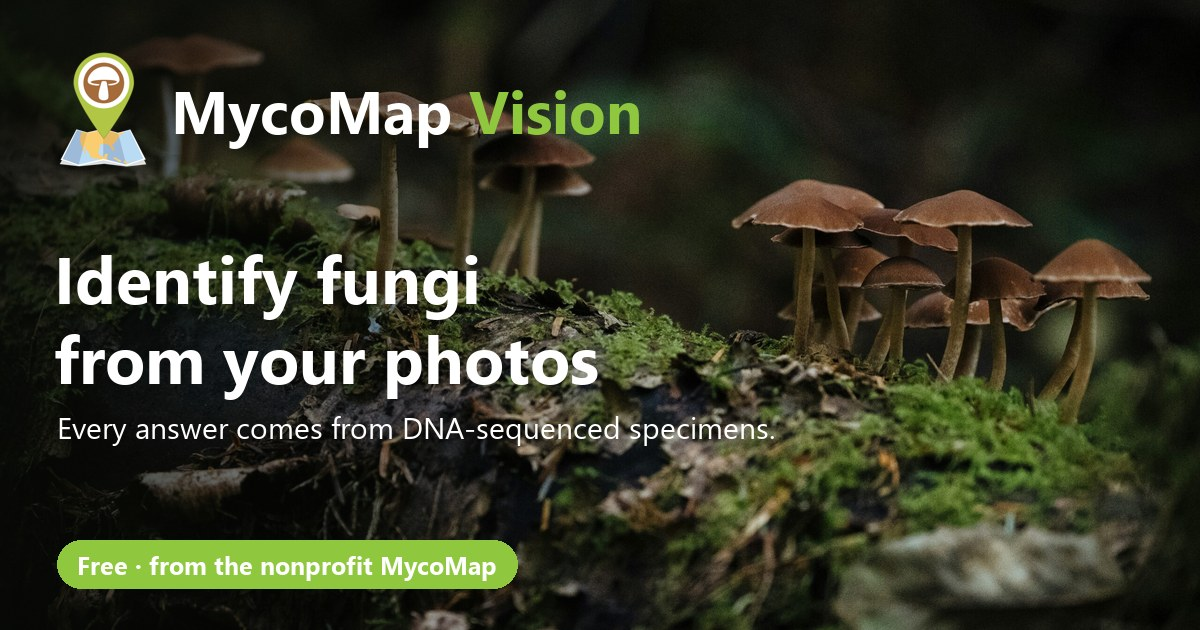
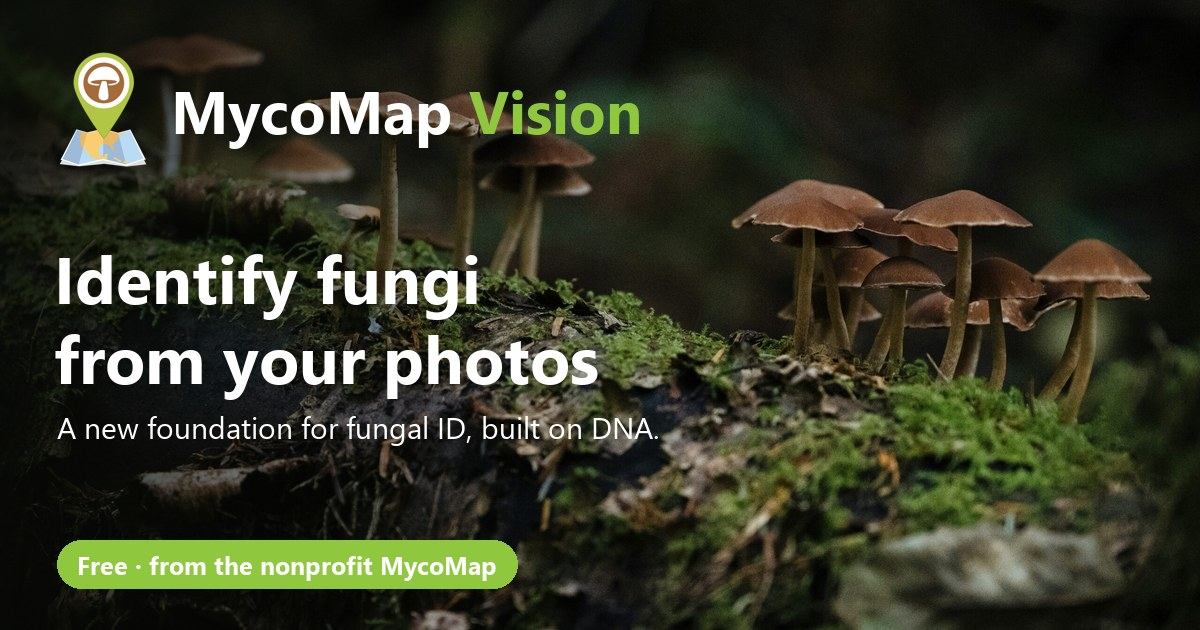
Site link card: "A new foundation for fungal ID, built on DNA."
Steve's pick, 2026-10-22, for the card's subline and its alt text. The
card is redrawn from the same hero photo; only the subline changes (main's
script redraws the live card byte-for-byte on this machine). The image's
address is versioned by its hash, so Facebook fetches it fresh on re-scrape.

No new test: a copy change to an image; the 48 link-card tests pass.

Changed region(s): [[0.0308, 0.6635, 0.6475, 0.7238]]

diff --git a/src/mycomap_vision/linkcards.py b/src/mycomap_vision/linkcards.py
@@ -45,8 +45,8 @@ SITE_DESCRIPTION = ("Matches your photos with 150,000+ DNA-verified records and 
                     "species known only from DNA. Free with a mycomap.org account. "
                     "Not edibility advice.")
 SITE_IMAGE = "/og-card.jpg"
-SITE_IMAGE_ALT = ("MycoMap Vision: identify fungi from your photos. Every answer comes from "
-                  "DNA-sequenced specimens.")
+SITE_IMAGE_ALT = ("MycoMap Vision: identify fungi from your photos. A new foundation for "
+                  "fungal ID, built on DNA.")
 CARD_SIZE = (1200, 630)
 
 # The pages people share. Every other page still sends a signed-out visitor to sign in.

diff --git a/scripts/make_og_card.py b/scripts/make_og_card.py
@@ -62,7 +62,8 @@ def draw(photo: Path, credit: str, logo: Path, focus=(0.5, 0.5)) -> Image.Image:
         y += 80
     sf = font(30)
     y += 14
-    d.text((57, y), "Every answer comes from DNA-sequenced specimens.", font=sf,
+    # Steve's pick, 2026-10-22: Vision as a new foundation model for fungi, still built on DNA.
+    d.text((57, y), "A new foundation for fungal ID, built on DNA.", font=sf,
            fill=(255, 255, 255, 225))
     pf = font(25, bold=True)
     pill = "Free · from the nonprofit MycoMap"
